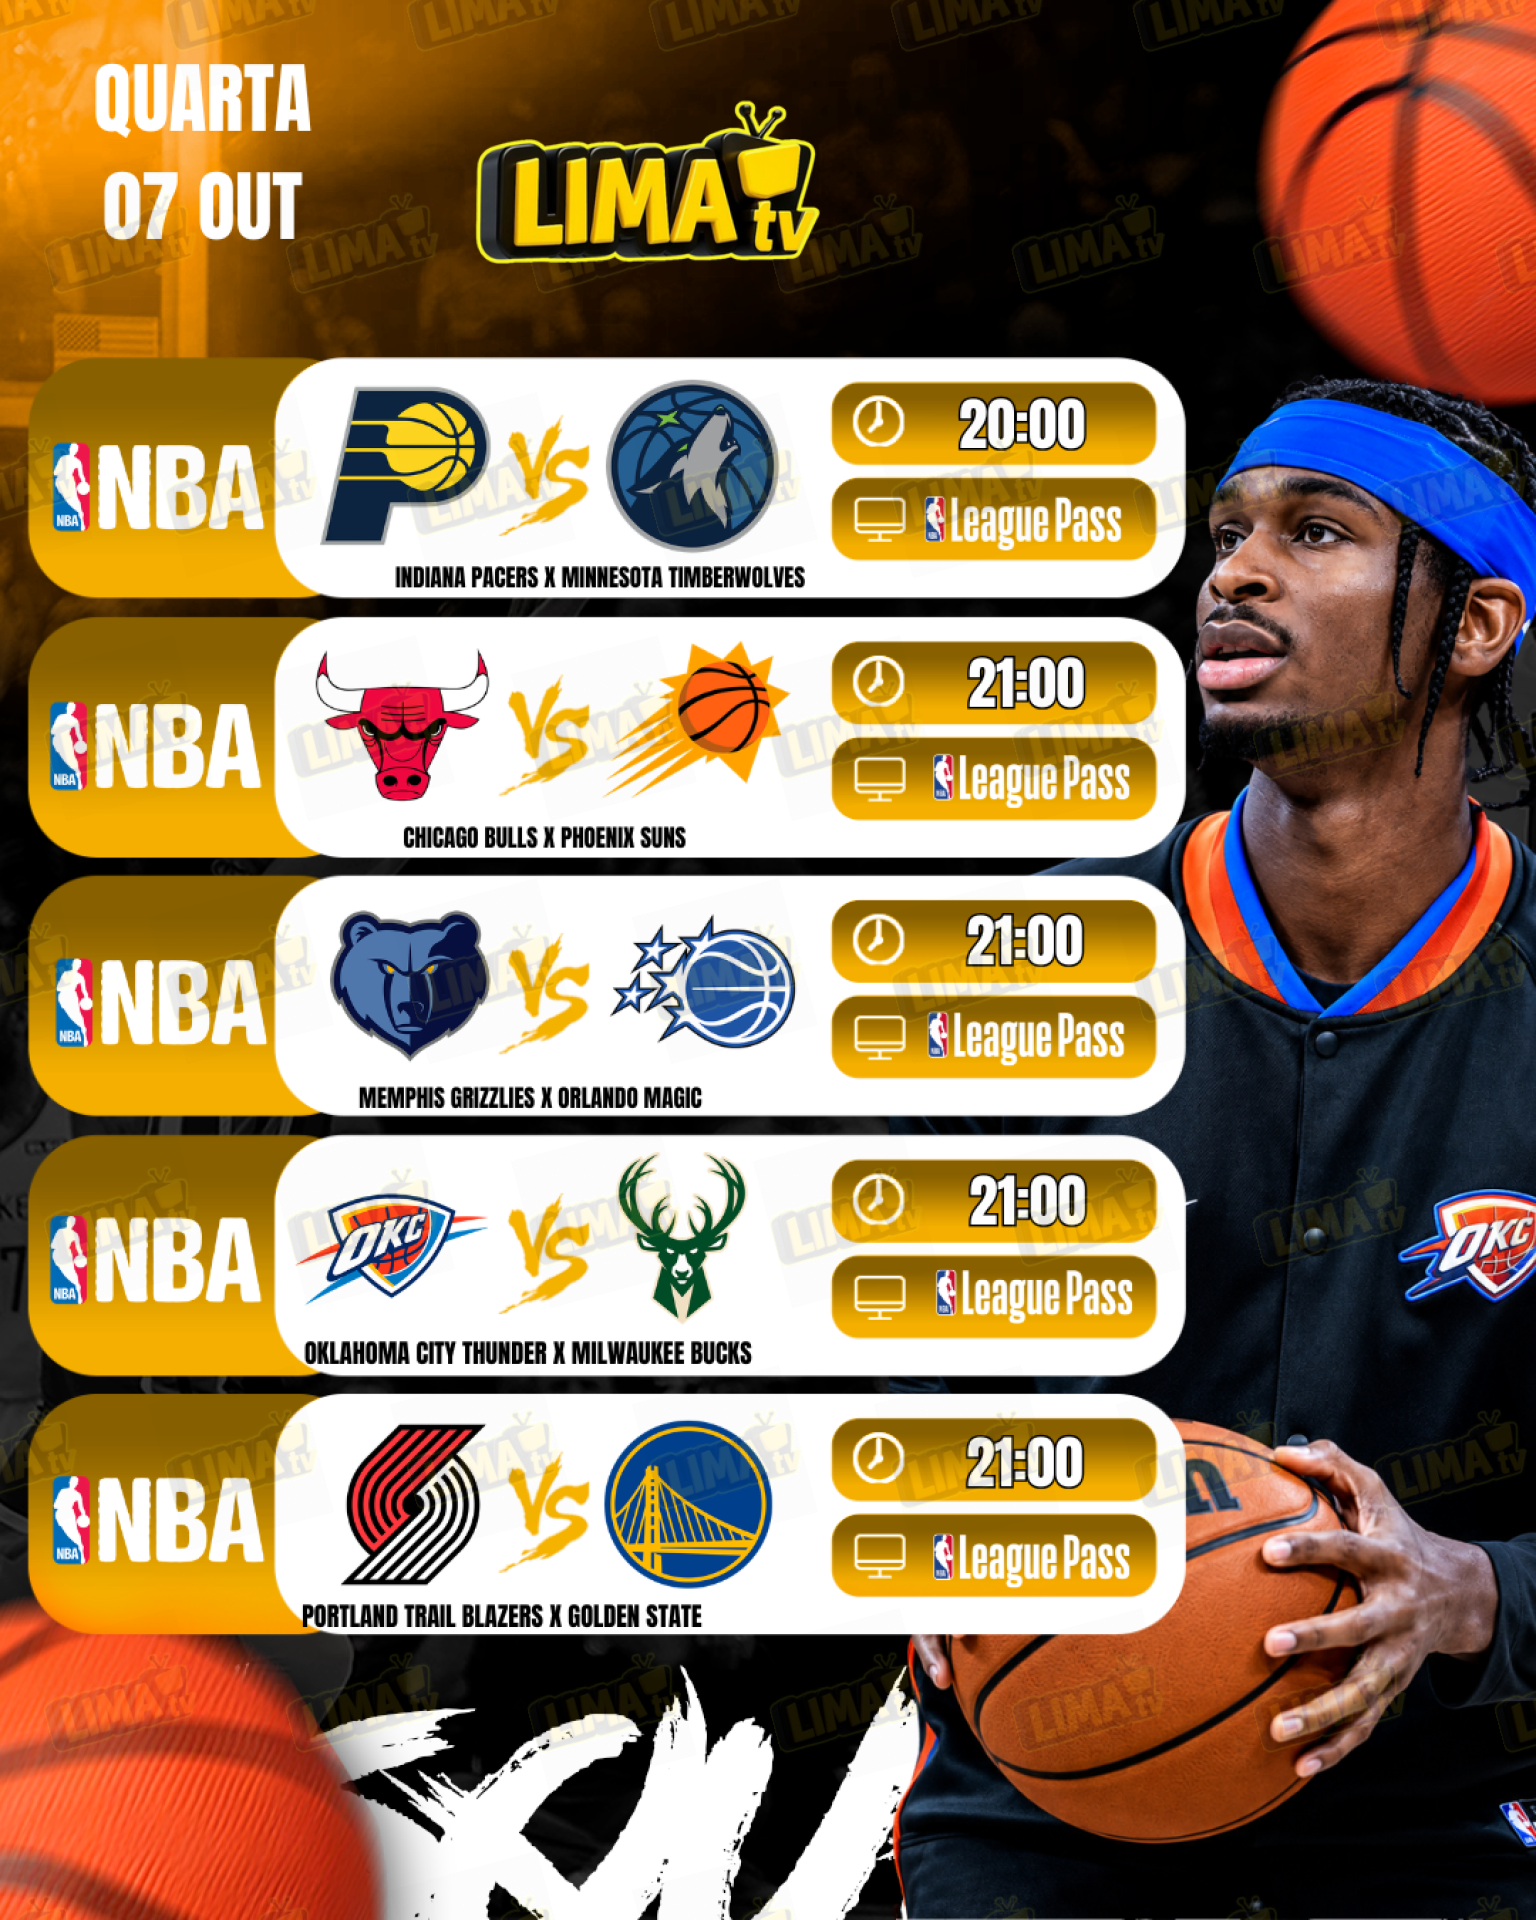
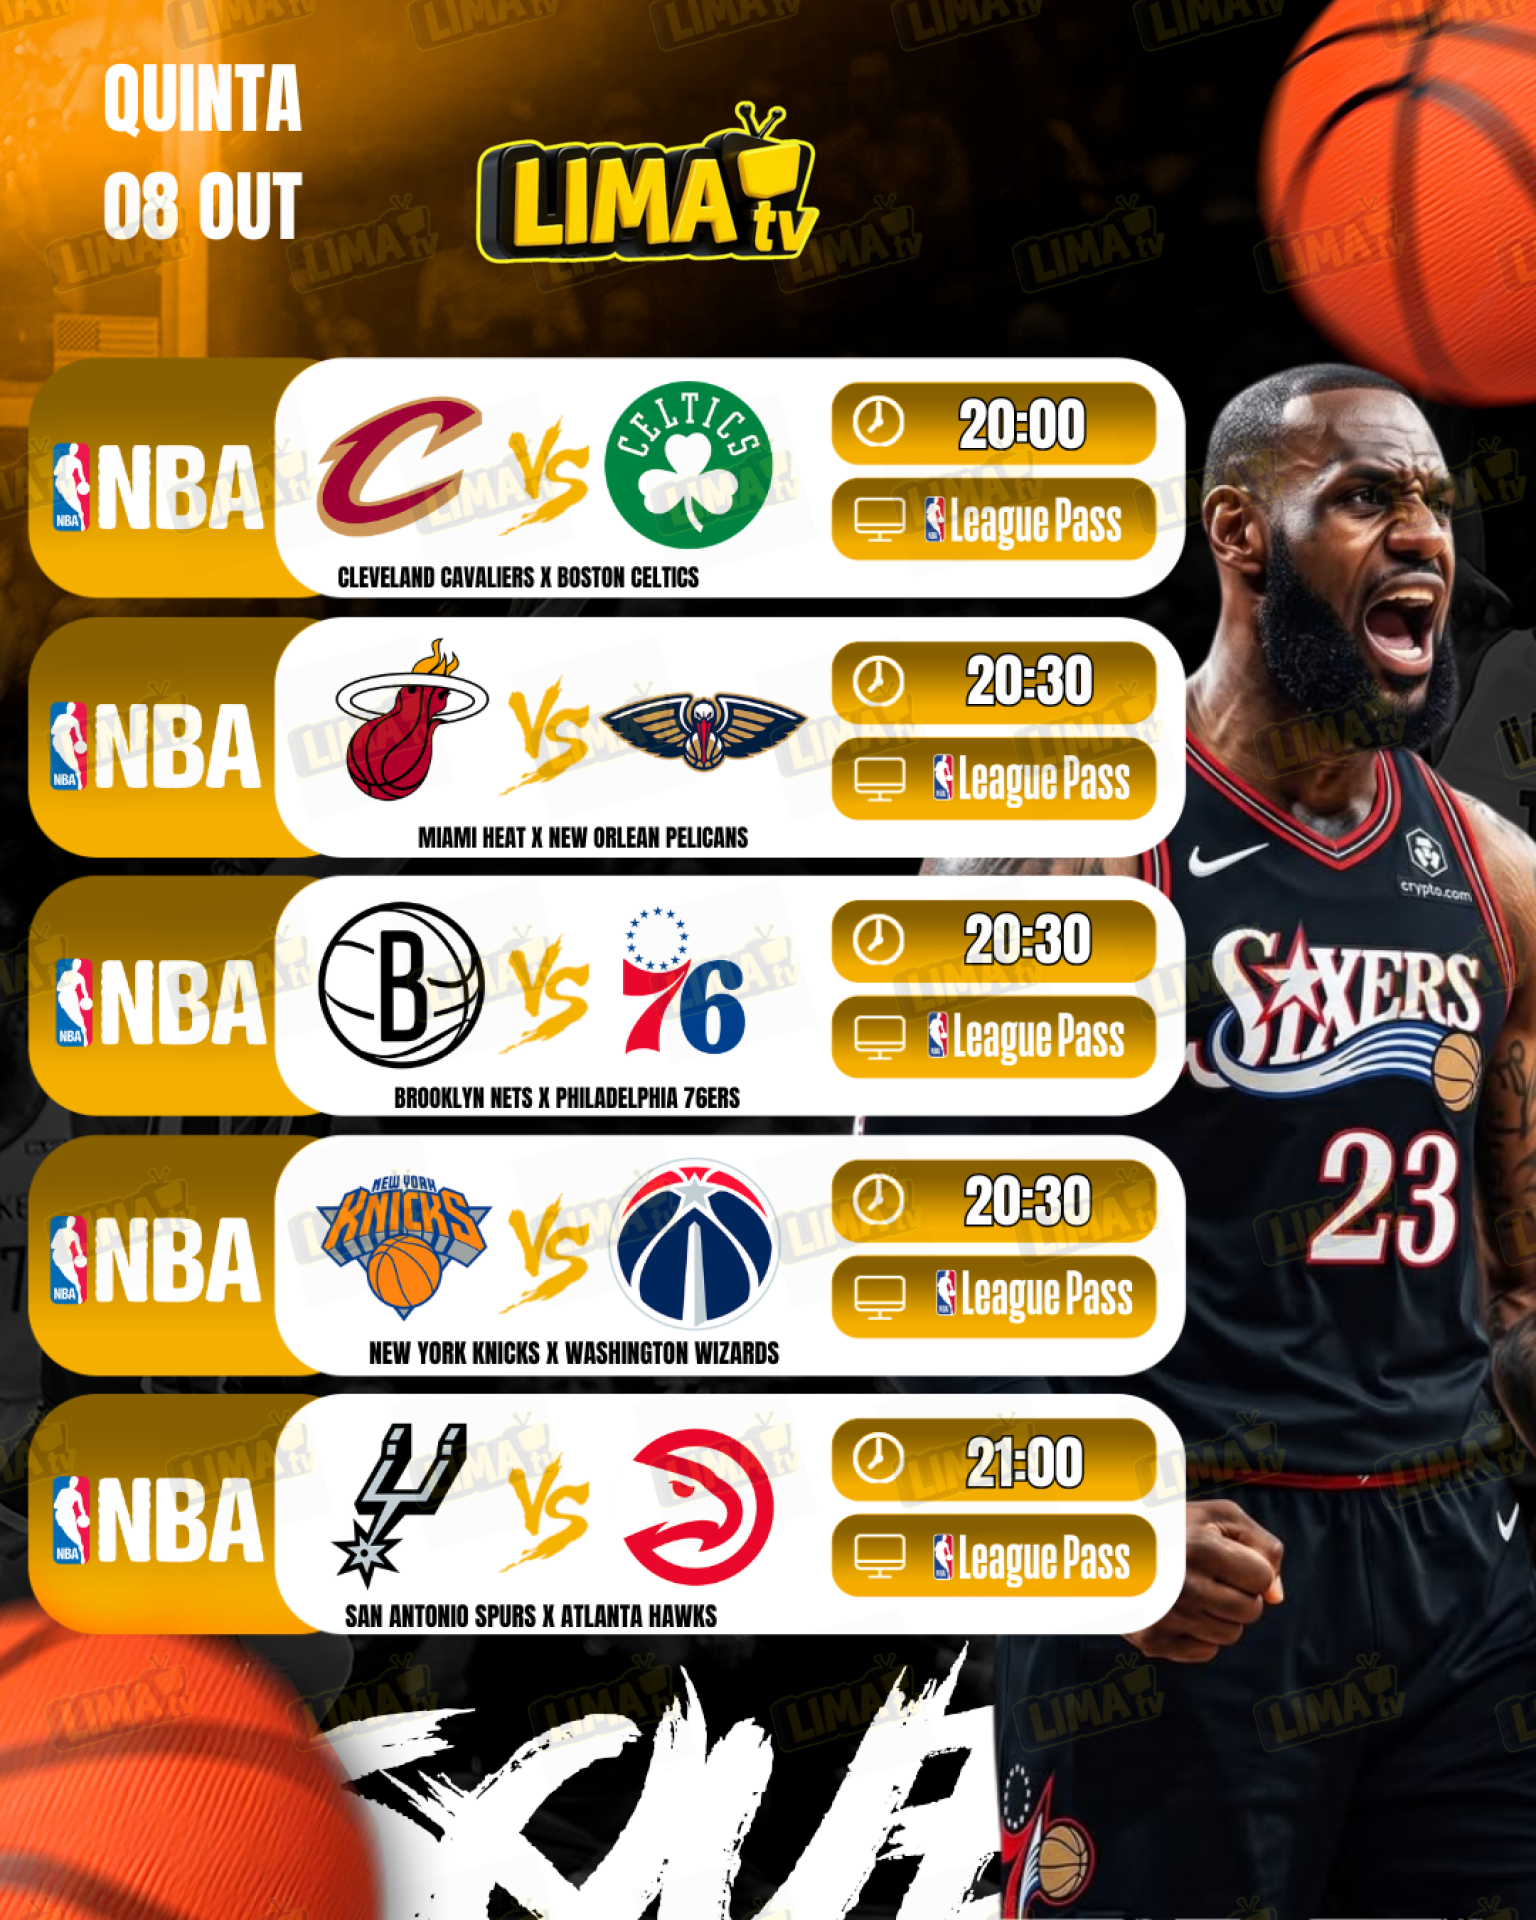
atualizacao 08/10/2026

diff --git a/index.html b/index.html
@@ -203,6 +203,52 @@
           </div>
         </div>
       </section>
+      <!-- NFL -->
+      <section id="nfl" class="container reveal">
+        <h2>Jogos da NFL  Hoje</h2>
+
+        <p>
+          Confira os jogos da NFL hoje com horários atualizados e saiba onde
+          assistir ao vivo na TV e streaming.
+        </p>
+
+        <div class="div-imagens">
+          <div class="container-imagens">
+            <div>
+              <img
+                src="nfl/capa_com_logo.png?=v08/10/2026"
+                alt="Jogos da NBA hoje com transmissão ao vivo"
+                width="300"
+                height="400"
+                loading="lazy"
+              />
+              <button class="btn-fullscreen">Ver em Tela Cheia</button>
+            </div>
+
+            <div>
+              <img
+                src="nba/banner_1.png?v=08/10"
+                alt="Jogos da NBA hoje com transmissão ao vivo"
+                width="300"
+                height="400"
+                loading="lazy"
+              />
+              <button class="btn-fullscreen">Ver em Tela Cheia</button>
+            </div>
+
+            <div>
+              <img
+                src="nba/banner_2.png?v=08/10"
+                alt="Jogos da NBA hoje com transmissão ao vivo"
+                width="300"
+                height="400"
+                loading="lazy"
+              />
+              <button class="btn-fullscreen">Ver em Tela Cheia</button>
+            </div>
+          </div>
+        </div>
+      </section>
 
       <!-- formula 1 -->
       <section id="formula1" class="container reveal">
@@ -326,7 +372,7 @@
           <div class="container-imagens">
             <div>
               <img
-                src="esportes/banner_1.png?=v07/10/2026"
+                src="esportes/banner_1.png?=v08/10/2026"
                 alt="Evento ESPORTES hoje com horário e transmissão"
                 width="300"
                 height="400"
@@ -337,7 +383,7 @@
 
             <div>
               <img
-                src="esportes/banner_2.png?=07/10/2026"
+                src="esportes/banner_2.png?=08/10/2026"
                 alt="Evento ESPORTES hoje com horário e transmissão"
                 width="300"
                 height="400"
@@ -349,7 +395,18 @@
             
             <div>
               <img
-                src="esportes/banner_3.png?=07/10/2026"
+                src="esportes/banner_3.png?=08/10/2026"
+                alt="Evento ESPORTES hoje com horário e transmissão"
+                width="300"
+                height="400"
+                loading="lazy"
+              />
+              <button class="btn-fullscreen">Ver em Tela Cheia</button>
+            </div>
+
+            <div>
+              <img
+                src="esportes/banner_4.png?=08/10/2026"
                 alt="Evento ESPORTES hoje com horário e transmissão"
                 width="300"
                 height="400"
